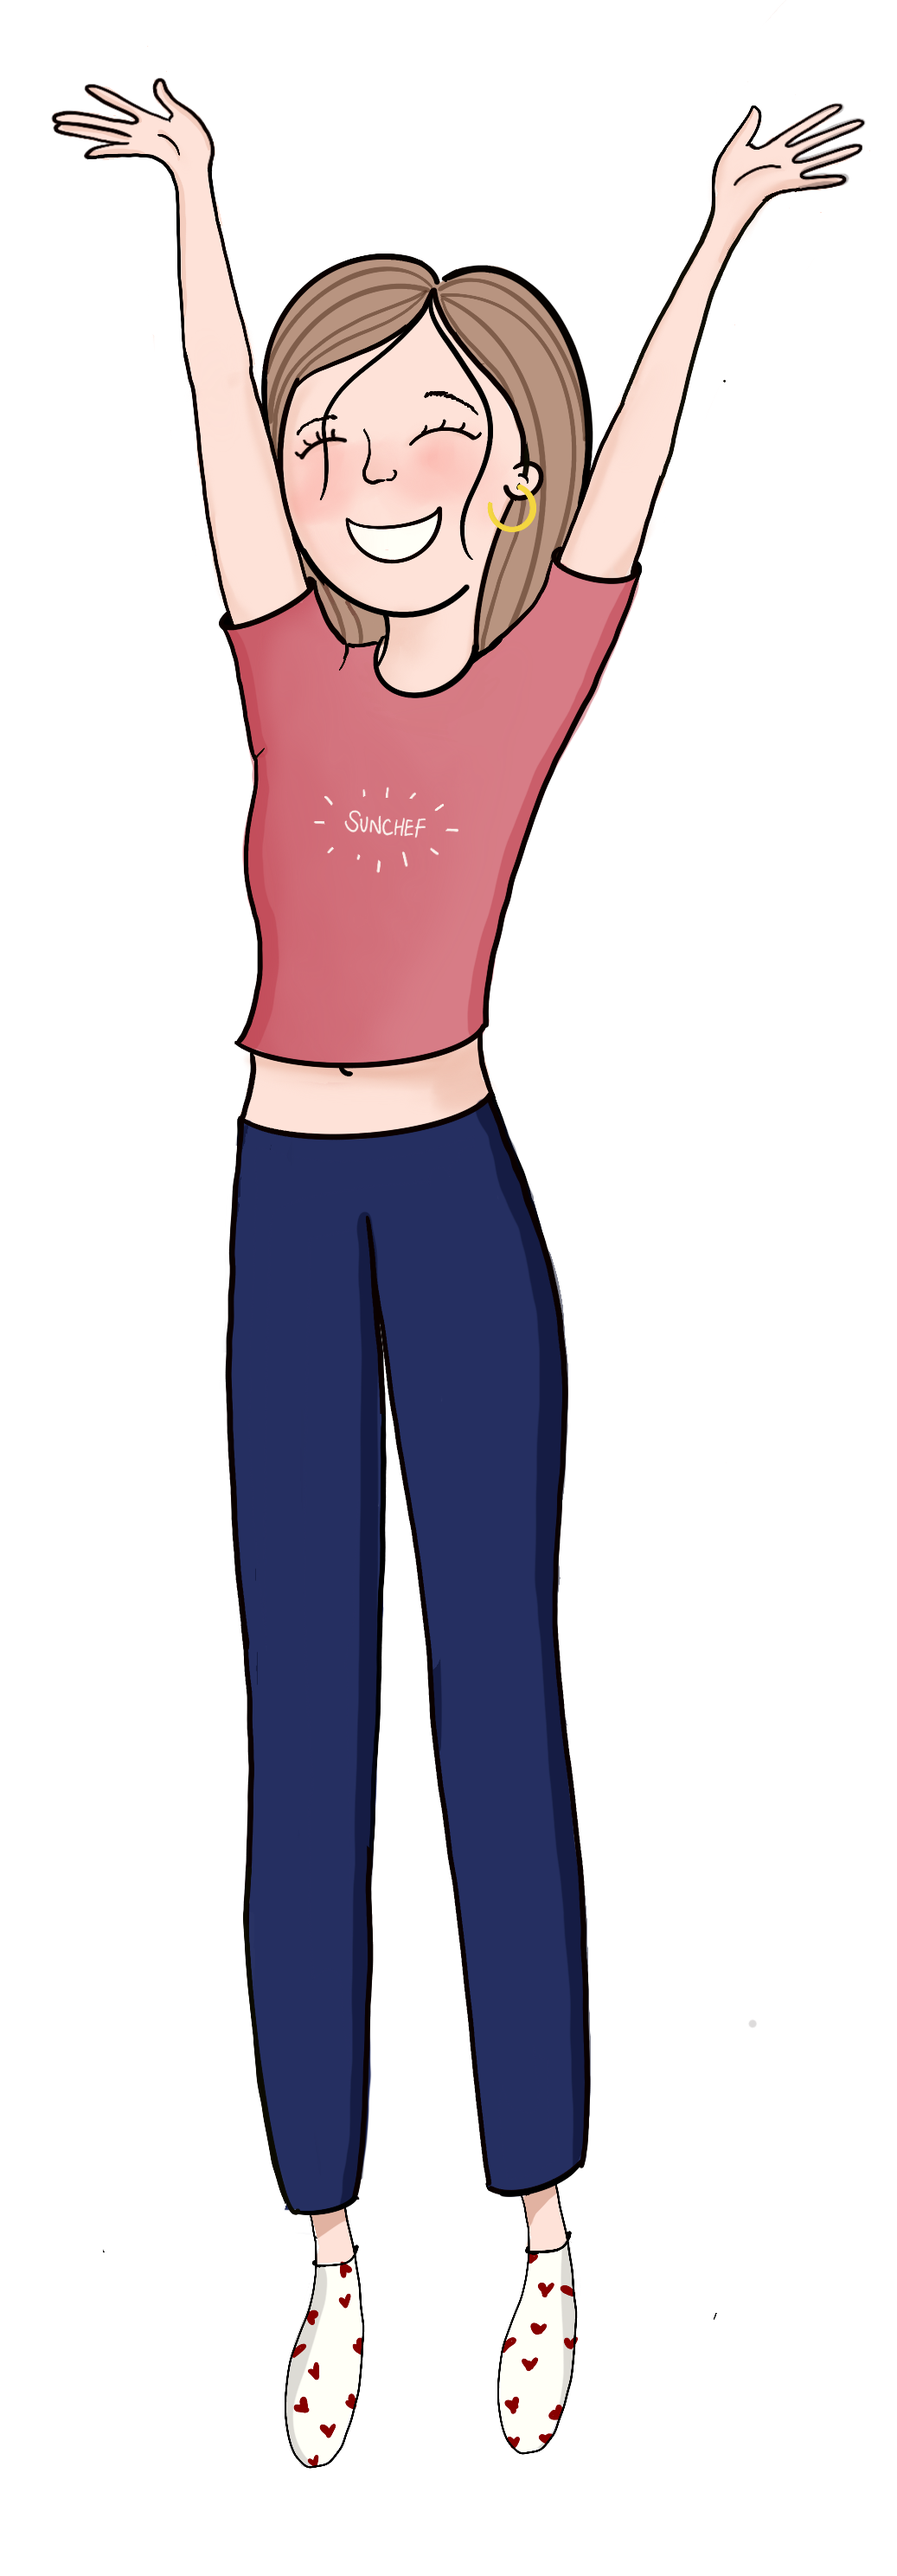
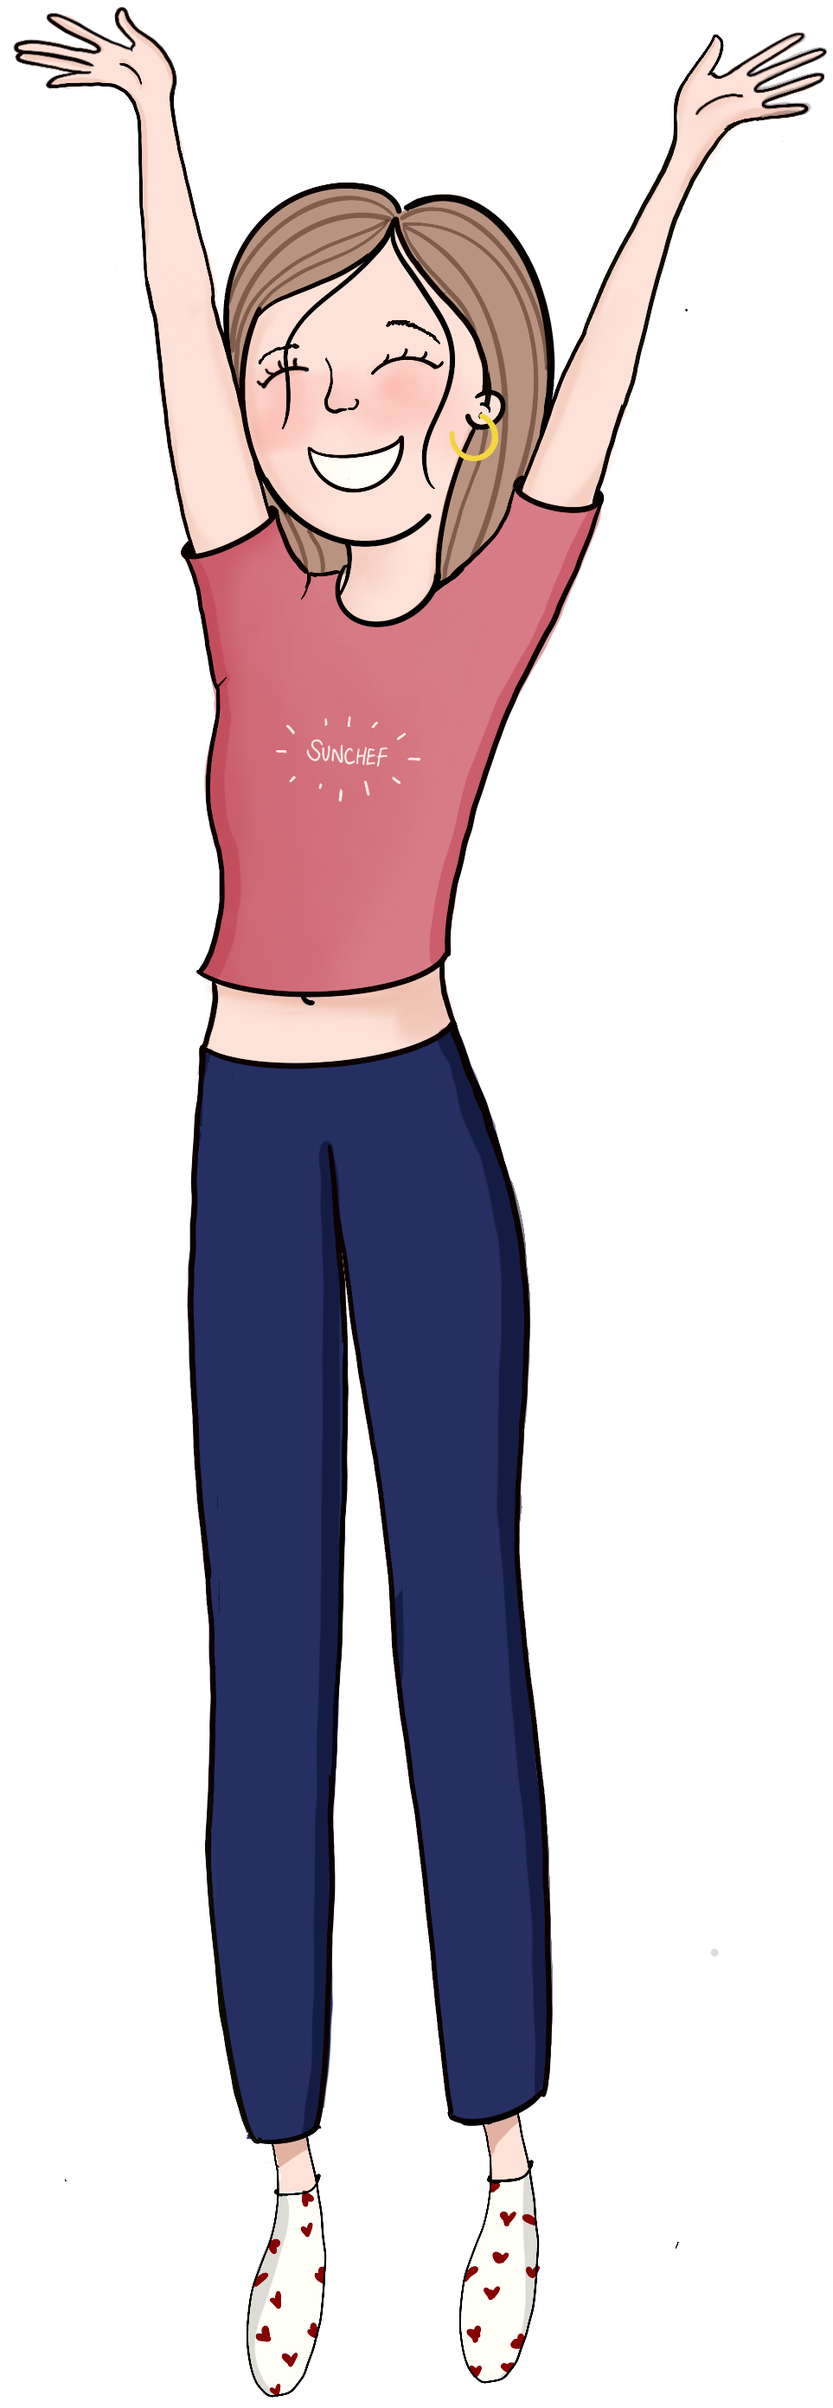
Add animations

diff --git a/app/assets/stylesheets/pages/_home.scss b/app/assets/stylesheets/pages/_home.scss
@@ -48,19 +48,30 @@
     margin-bottom: 58px;
   }
 
-  .illustration {
+  .illustration-wrapper {
     height: 400px;
-    object-fit: contain;
-    object-position: center;
+    width: 289px;
     @include media-breakpoint-up(lg) {
       right: 50px;
       bottom: 200px;
       height: 600px;
+      width: 300px;
       position: absolute;
     }
     @include media-breakpoint-up(xl) {
-      right: 144px;
+      right: 150px;
       height: 800px;
+    }
+  }
+
+  .illustration {
+    height: 100%;
+    object-fit: contain;
+    object-position: center;
+    @include media-breakpoint-up(lg) {
+      position: absolute;
+      top: 0;
+      left: 0;
     }
   }
 
@@ -237,7 +248,7 @@
     }
     font-weight: bold;
     margin-left: 32px;
-    line-height: 25px;
+    line-height: 35px;
   }
 
   .breakfast__section--title-bottom {

diff --git a/app/assets/stylesheets/pages/_shop.scss b/app/assets/stylesheets/pages/_shop.scss
@@ -13,6 +13,20 @@
 
   .bag {
     width: 300px;
+    transform: translateY(165px);
+    animation: show-bag 0.5s ease-in-out 0.5s forwards;
+  }
+
+  @keyframes show-bag {
+    0% {
+      transform: translateY(165px);
+    }
+    75% {
+      transform: translateY(-10px);
+    }
+    100% {
+      transform: translateY(0);
+    }
   }
 
   .belly {
@@ -23,6 +37,7 @@
     .belly-left {
       background-color: #d8c3dd;
       padding: 123px 50px;
+      z-index: 100;
       @include media-breakpoint-up(md) {
         padding: 123px 100px;
       }
@@ -48,6 +63,7 @@
 
     .belly-right {
       background-color: #e7e1d5;
+      z-index: 100;
       padding: 50px 25px;
       @include media-breakpoint-up(xl) {
         padding: 102px;

diff --git a/app/javascript/controllers/home_illustrations_controller.js b/app/javascript/controllers/home_illustrations_controller.js
@@ -1,0 +1,12 @@
+import {Controller} from '@hotwired/stimulus'
+
+export default class extends Controller {
+  static targets = ['home', 'about']
+
+  connect() {
+    setInterval(() => {
+      this.homeTarget.classList.toggle('d-none')
+      this.aboutTarget.classList.toggle('d-none')
+    }, [500])
+  }
+}
